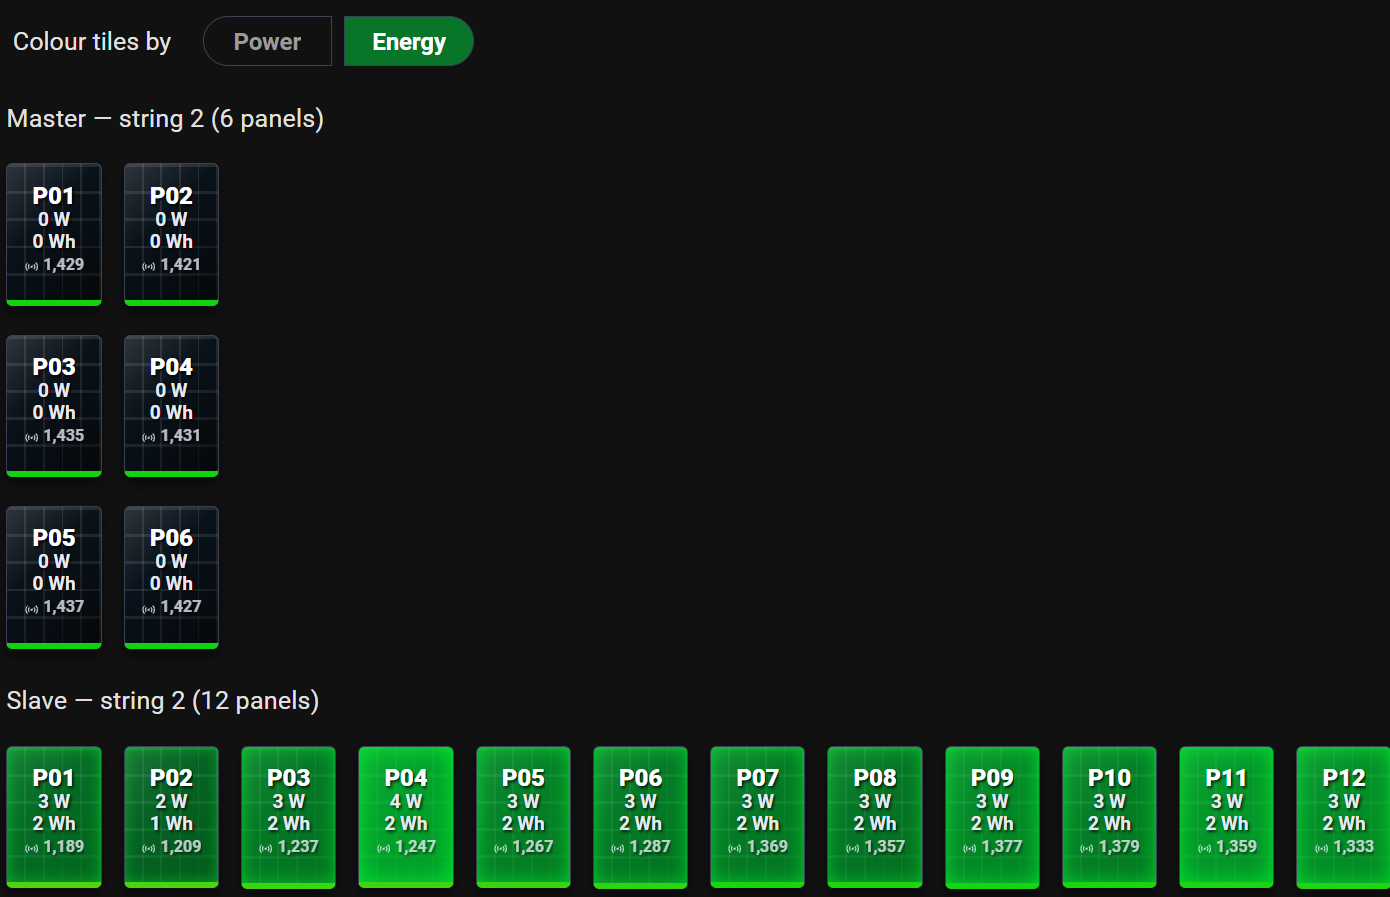
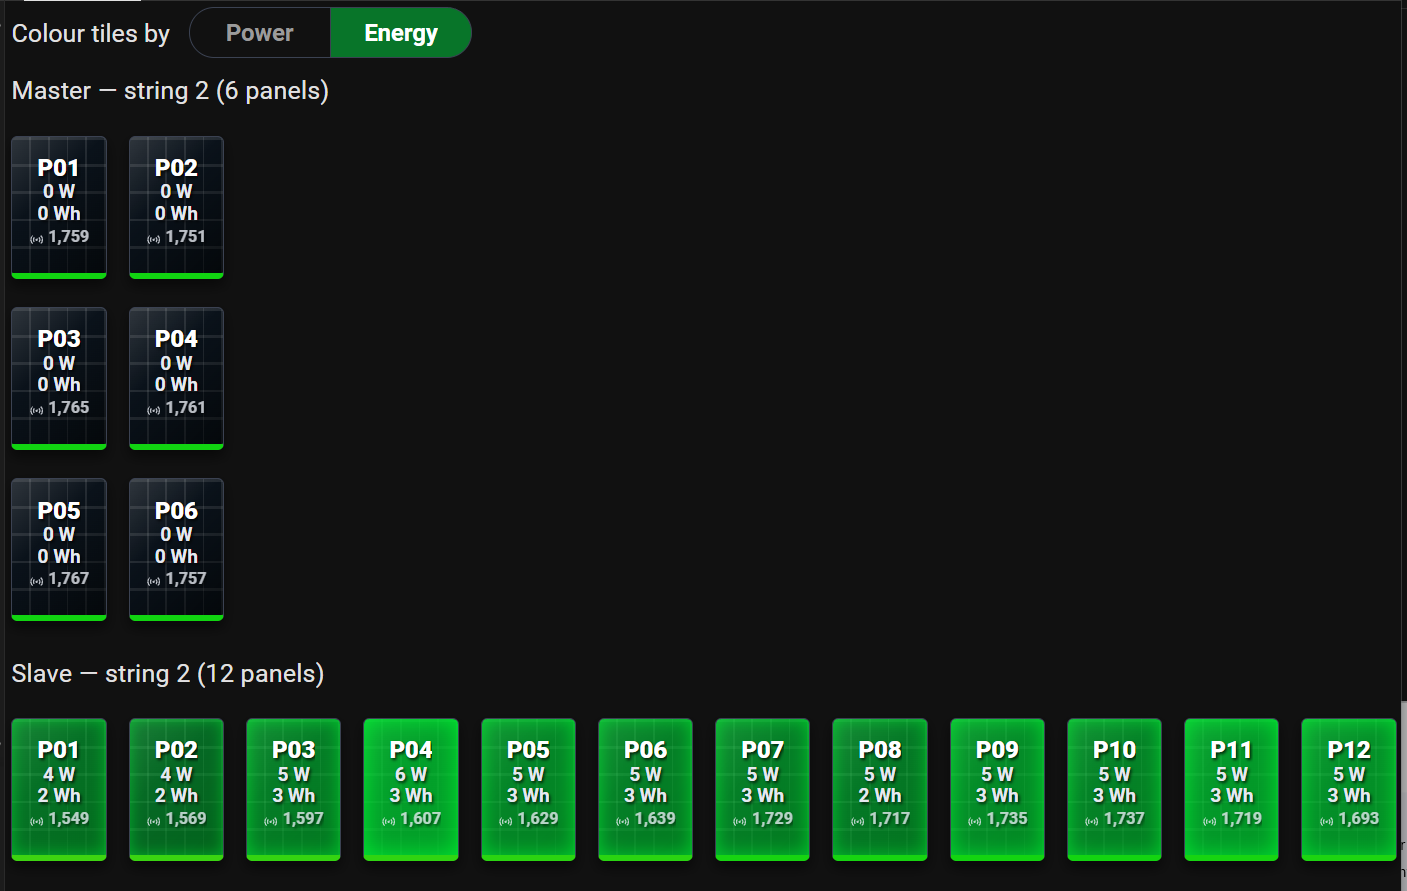
PV Panels dashboard: make the colour switch one pill
layout-card's grid puts a 4 px margin around every card and ignores
card_margin, which left a gap between Power and Energy. The label and both
buttons are now custom fields of a single button-card. New screenshot.

Changed region(s): [[0.0, 0.0, 1.0, 1.0], [0.0, 0.0303, 0.1237, 0.0606], [0.9899, 0.0, 1.0, 0.0303]]

diff --git a/dashboards/pv_panels.md b/dashboards/pv_panels.md
@@ -4,7 +4,7 @@ One view that shows everything PyTap knows about each panel at a glance: live po
 
 ![PV Panels view coloured by energy: 6-panel string still dark at dawn, 12-panel string green](images/panels-view-energy.png)
 
-*About 08:10 on a 6 + 12 panel installation, coloured by energy. The 12-panel string has started producing; the 6-panel string faces differently and hasn't yet, so its tiles are dark. Every panel's connectivity bar (bottom edge) is green.*
+*About 08:25 on a 6 + 12 panel installation, coloured by energy. The 12-panel string has started producing; the 6-panel string faces differently and hasn't yet, so its tiles are dark. Every panel's connectivity bar (bottom edge) is green.*
 
 This dashboard is new in this fork. It replaces the three separate views of the [classic PV Production dashboard](pv_production.md) (energy, connectivity and power), which is still available and kept up to date.
 
